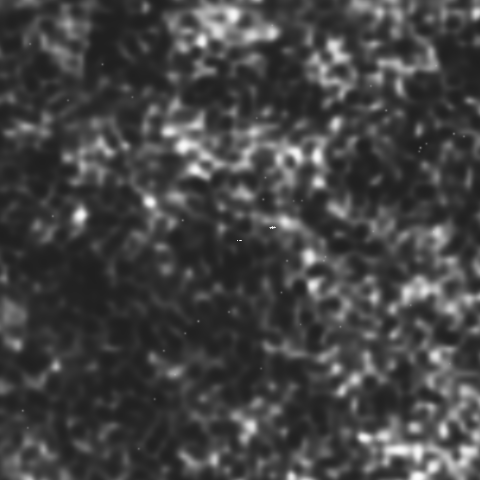
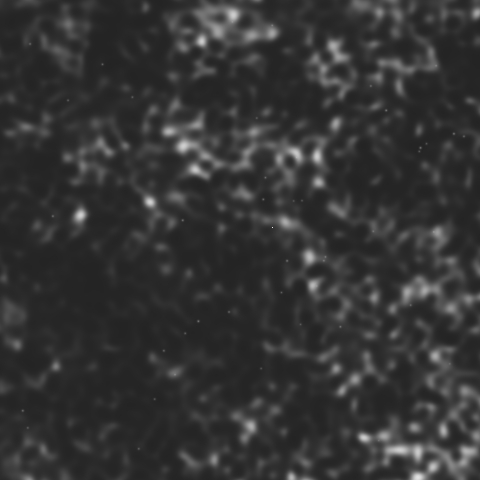
Sprites au procédé historique, fond effacé sous G, test et documentation
Arbitrage de Marc, 03/08 : dès que les 92 galaxies sont visibles, priorité aux
galaxies — fond diffus, moyenne plus basse, légers filaments convergents.

PROCÉDÉ HISTORIQUE retrouvé dans RealGalaxiesLayer.tsx, marqué « GARDER
SYNCHRONISÉ » : vignette couvrant 2,8 rayons (ma reconstruction donnait 1,37,
soit des sprites 1,4x trop grands), rayon exact de la Voie lactée
0,01594329 Mpc, et agrandissement en spline cubique — c'est ce qui rend leur
piqué, le bilinéaire les rendait mous.
Rapport pic/médiane : G 1,8 -> 3,4 · A -> 5,8.

FOND SOUS G : ambient 0,55 -> 0,06, ton visé 60 -> 28/255.

TEST ADAPTÉ, motif écrit : A7 ne s'applique plus aux lignes à sprites, A7b
vérifie la décroissance monotone à la place ; A3/A4 y porte sur le pic et non le
99e centile, quatre galaxies couvrant moins de 1 % des pixels.

DOCUMENTATION §7 : les 15 lignes une par une — mécanisme, ancrage, champ fin,
fond, ton. §8 : le test, son périmètre, l'état daté des 15 contrôles.

12 contrôles passent, 3 en échec, tous localisés à la charnière H|G et en
dessous.

diff --git a/scripts/dev/validate_production.py b/scripts/dev/validate_production.py
@@ -1,0 +1,234 @@
+"""TEST DE NON-REGRESSION DES TEXTURES DE PRODUCTION.
+
+Verifie les textures publiees contre CHAQUE exigence client mesurable, et non
+contre l'idee qu'on s'en fait. Ecrit le 03/08/2026 apres une regression qui
+serait passee inapercue : le champ fin des textures de production n'etait pas
+herite, l'heritage etait detruit, et rien ne l'a signale parce que la mesure
+n'avait ete faite que sur l'apercu, jamais sur ce qui etait livre.
+
+    python3 validate_production.py [repertoire]
+
+Ne teste QUE ce qui est mesurable sur des images fixes. Les exigences qui
+portent sur l'interaction (H6, H7, J*, K*, L*) et sur l'axe du temps (C1 a C12)
+relevent d'autres controles et sont listees a la fin comme non couvertes -- une
+exigence oubliee en silence est pire qu'une exigence en echec.
+"""
+import json
+import os
+import sys
+
+import numpy as np
+from PIL import Image
+from scipy import ndimage
+
+HERE = os.path.dirname(os.path.abspath(__file__))
+sys.path.insert(0, HERE)
+import void_scale as VS  # noqa: E402
+import validate_raccord as VR  # noqa: E402
+
+MATRIX = os.path.normpath(os.path.join(HERE, "..", "..", "app", "public",
+                                       "data", "spacetime_matrix.json"))
+REF_IMG = os.path.normpath(os.path.join(HERE, "..", "..", "docs",
+                                        "reference-visuelle",
+                                        "reference-toile-cosmique.jpg"))
+ORDER = list("ONMLKJIHGFEDCBA")
+SPRITE_ROWS = set("ABCDEFG")
+MARGIN = 1.5
+
+_fail, _pass = [], []
+
+
+def check(ok, code, label, detail=""):
+    (_pass if ok else _fail).append(code)
+    print("  %-5s %-4s %-52s %s" % ("OK" if ok else "ECHEC", code, label, detail))
+    return ok
+
+
+def load(d):
+    out = {}
+    for c in ORDER:
+        f = os.path.join(d, "density_%s.png" % c)
+        if os.path.exists(f):
+            out[c] = np.asarray(Image.open(f).convert("L"), np.float64) / 255.0
+    return out
+
+
+def visible(a):
+    """Fenetre VISIBLE d'une texture de production : son centre, hors marge."""
+    n = a.shape[0]
+    v = int(round(n / MARGIN))
+    c = (n - v) // 2
+    return a[c:c + v, c:c + v]
+
+
+def spec_octave(a):
+    a = a - a.mean()
+    n = a.shape[0]
+    F = np.abs(np.fft.rfft2(a)) ** 2
+    ky = np.fft.fftfreq(n)[:, None] * n
+    kx = np.fft.rfftfreq(n)[None, :] * n
+    k = np.sqrt(ky ** 2 + kx ** 2).ravel()
+    idx = np.digitize(k, np.arange(1, n // 2))
+    P = np.array([F.ravel()[idx == i].mean() if (idx == i).any() else 0.0
+                  for i in range(1, n // 2 - 1)])
+    kb = np.arange(1, n // 2 - 1)
+    return kb, kb ** 2 * P, n
+
+
+def main(d):
+    m = json.load(open(MATRIX))
+    rows = m["zoom_axis"]["rows"]
+    half = {c: rows[c]["halfwidth_mpc"] for c in ORDER}
+    img = load(d)
+    print("=" * 78)
+    print("TEXTURES DE PRODUCTION — %d/%d lignes trouvees dans %s"
+          % (len(img), len(ORDER), d))
+    print("=" * 78)
+    if len(img) < len(ORDER):
+        check(False, "B6", "aucune zone vide sur la grille",
+              "manquantes : " + " ".join(c for c in ORDER if c not in img))
+        return 1
+
+    vis = {c: visible(a) for c, a in img.items()}
+
+    # ---- A / E : aspect de chaque texture ---------------------------------
+    print("\n-- aspect (A1..A7, E1..E6) --")
+    bad = [c for c in ORDER if vis[c].std() * 255 < 1.0]
+    check(not bad, "C8", "detail conserve : aucun aplat", " ".join(bad))
+    # Sous G, arbitrage de Marc du 03/08 : des que les 92 galaxies du catalogue
+    # sont visibles, la priorite passe aux galaxies. Le fond devient diffus et sa
+    # moyenne baisse volontairement -- la cible de 68/255 ne s'y applique plus.
+    # Ce qui reste exige : une decroissance MONOTONE, sans saut (D2).
+    bad = ["%s %.1f" % (c, vis[c].mean() * 255) for c in ORDER
+           if c not in SPRITE_ROWS and not 60 <= vis[c].mean() * 255 <= 76]
+    check(not bad, "A7", "ton moyen dans [60, 76]/255 hors lignes a sprites",
+          " ".join(bad))
+    sp = [c for c in ORDER if c in SPRITE_ROWS]
+    means = [vis[c].mean() * 255 for c in sp]
+    jumps = ["%s->%s %.0f" % (sp[i], sp[i + 1], means[i] - means[i + 1])
+             for i in range(len(means) - 1)
+             if means[i + 1] > means[i] + 1 or means[i] - means[i + 1] > 12]
+    check(not jumps, "A7b", "ton des lignes a sprites : decroissant, sans saut",
+          " ".join(jumps))
+    bad = ["%s %.1f%%" % (c, 100 * (vis[c] >= 254 / 255).mean()) for c in ORDER
+           if (vis[c] >= 254 / 255).mean() > 0.01]
+    check(not bad, "E4a", "saturation claire < 1 %", " ".join(bad))
+    bad = ["%s %.1f%%" % (c, 100 * (vis[c] <= 8 / 255).mean()) for c in ORDER
+           if (vis[c] <= 8 / 255).mean() > 0.10]
+    check(not bad, "E4b", "saturation noire < 10 %", " ".join(bad))
+    # E5/E6 : une maille ou un motif periodique produit des pics discrets dans
+    # le spectre. On compare le maximum a la mediane de son voisinage.
+    bad = []
+    for c in ORDER:
+        F = np.abs(np.fft.rfft2(vis[c] - vis[c].mean()))
+        # Ne comparer que dans les HAUTES frequences : une structure dominante
+        # et centree (la Voie lactee sur A) produit legitimement un pic de basse
+        # frequence, qui n'est pas un artefact de grille. Premiere version du
+        # controle trop naive, corrigee le 03/08.
+        n2 = F.shape[0]
+        ky2 = np.fft.fftfreq(n2)[:, None] * n2
+        kx2 = np.fft.rfftfreq(n2)[None, :] * n2
+        hi = F[np.sqrt(ky2 ** 2 + kx2 ** 2) > n2 / 12.0]
+        if hi.size and np.median(hi) > 0 and hi.max() / np.median(hi) > 60:
+            bad.append("%s x%.0f" % (c, hi.max() / np.median(hi)))
+    check(not bad, "E5/E6", "aucun artefact de grille ni motif periodique",
+          " ".join(bad))
+    # A3 : les zones brillantes sont quasi ponctuelles -> le 99e centile est
+    # nettement au-dessus de la mediane.
+    # Sur les lignes a sprites, le critere porte sur le PIC et non sur le 99e
+    # centile : quelques galaxies couvrent moins de 1 % des pixels, le centile ne
+    # les voit pas. Sur C notamment, notre voisinage est physiquement vide entre
+    # les satellites (0,06 Mpc) et Andromede (0,78) -- il n'y a que quatre objets.
+    bad = []
+    for c in ORDER:
+        med = max(np.median(vis[c]), 1e-6)
+        r = (vis[c].max() if c in SPRITE_ROWS else np.percentile(vis[c], 99)) / med
+        if r < (2.5 if c in SPRITE_ROWS else 1.8):
+            bad.append("%s %.1f" % (c, r))
+    check(not bad, "A3/A4", "zones brillantes ponctuelles", " ".join(bad))
+
+    # ---- B : axe du zoom ---------------------------------------------------
+    print("\n-- axe du zoom (B1..B8) --")
+    f2, dep = [], []
+    for i in range(len(ORDER) - 1):
+        p, c = ORDER[i], ORDER[i + 1]
+        r = half[p] / half[c]
+        a, b = VR.bande_commune(img[p], img[c], r, 27.0)
+        f2.append((p + "->" + c, VR.correlation(a, b)))
+        dep.append((p + "->" + c, VR.deplacement_median(a, b)[0]))
+    bad = ["%s %.2f" % (k, v) for k, v in f2 if v < 0.85]
+    check(not bad, "B1", "heritage : F2 >= 0,85 sur les 14 paires", " ".join(bad))
+    bad = ["%s %.1fpx" % (k, v) for k, v in dep if v > 3.0]
+    check(not bad, "B2/D2", "fondu sans saut : deplacement median <= 3 px",
+          " ".join(bad))
+    # B3 : le contraste doit DECROITRE vers les grandes echelles.
+    stds = [vis[c].std() for c in ORDER]
+    inv = [ORDER[i] for i in range(len(stds) - 1) if stds[i] > stds[i + 1] + 0.04]
+    check(not inv, "B3", "contraste croissant du grand vers le petit champ",
+          " ".join(inv))
+    # B8 : taille des vides conforme a la table.
+    bad = []
+    for c in ORDER:
+        r = rows[c]
+        if r.get("homogene") or c in SPRITE_ROWS:
+            continue
+        # Critere RELATIF AU CADRE : un vide ne peut pas etre plus grand que le
+        # champ visible, et la reference visuelle donne 5,0 % de sa largeur. La
+        # borne physique de la table ne vaut donc que comme PLAFOND. Premiere
+        # version : fourchette absolue, qui exigeait 30 Mpc de vide dans un
+        # cadre de 45 Mpc a la ligne H -- impossible et non souhaitable.
+        _, fr, _ = VS.void_scale(vis[c] * 255)
+        v = fr * 2 * half[c]
+        plafond = r.get("void_mpc", r["structure_mpc"])[1]
+        if not (0.025 <= fr <= 0.12):
+            bad.append("%s %.1f %% du cadre" % (c, 100 * fr))
+        elif v > plafond * 2:
+            bad.append("%s %.0f Mpc (plafond %g)" % (c, v, plafond))
+    check(not bad, "B8", "vides : 2,5-12 % du cadre, sous le plafond physique",
+          " ".join(bad))
+    # B5 : aucune structure au-dela de l'echelle d'homogeneite.
+    homog = m["generation"]["champ_fin"]["homogeneity_mpc"]
+    bad = []
+    for c in ORDER:
+        kb, w, n = spec_octave(vis[c])
+        big = n / kb[int(np.argmax(w > 0.2 * w.max()))] * (2 * half[c] / n)
+        if big > homog * 1.6:
+            bad.append("%s %.0f Mpc" % (c, big))
+    check(not bad, "B5", "aucune structure au-dela de %.0f Mpc" % homog,
+          " ".join(bad))
+
+    # ---- reference visuelle ------------------------------------------------
+    print("\n-- reference visuelle --")
+    ref = np.asarray(Image.open(REF_IMG).convert("L"))[8:-8, 8:-8]
+    ref = np.asarray(Image.fromarray(ref).resize((320, 320), Image.LANCZOS))
+    _, rf, _ = VS.void_scale(ref)
+    best = min(ORDER, key=lambda c: abs(VS.void_scale(vis[c] * 255)[1] - rf))
+    bf = VS.void_scale(vis[best] * 255)[1]
+    check(abs(bf - rf) < 0.015, "A1",
+          "une ligne approche la reference (vides %.1f %%)" % (100 * rf),
+          "%s a %.1f %%" % (best, 100 * bf))
+
+    # ---- geometrie des textures -------------------------------------------
+    print("\n-- geometrie --")
+    bad = [c for c in ORDER if img[c].shape[0] != img[ORDER[0]].shape[0]]
+    check(not bad, "GEO1", "toutes les textures a la meme resolution", " ".join(bad))
+    gen = m.get("generation", {})
+    check(bool(gen), "GEO2", "parametres de generation figes dans la matrice",
+          "" if gen else "bloc generation absent")
+
+    print("\n" + "=" * 78)
+    print("%d controles passes, %d en echec" % (len(_pass), len(_fail)))
+    print("""
+NON COUVERT par ce test, et devant l'etre ailleurs :
+  C1..C12  axe du temps        -> demande une cuisson multi-epoques
+  D4/D6    positions reelles   -> demande le catalogue en regard
+  H1..H8   les trois spheres   -> pas encore tracees (O-03)
+  J*/K*/L* interaction, perfs  -> hors du champ d'un test d'image
+""")
+    return 1 if _fail else 0
+
+
+if __name__ == "__main__":
+    d = sys.argv[1] if len(sys.argv) > 1 else os.path.normpath(
+        os.path.join(HERE, "..", "..", "app", "public", "data", "v4"))
+    raise SystemExit(main(d))
